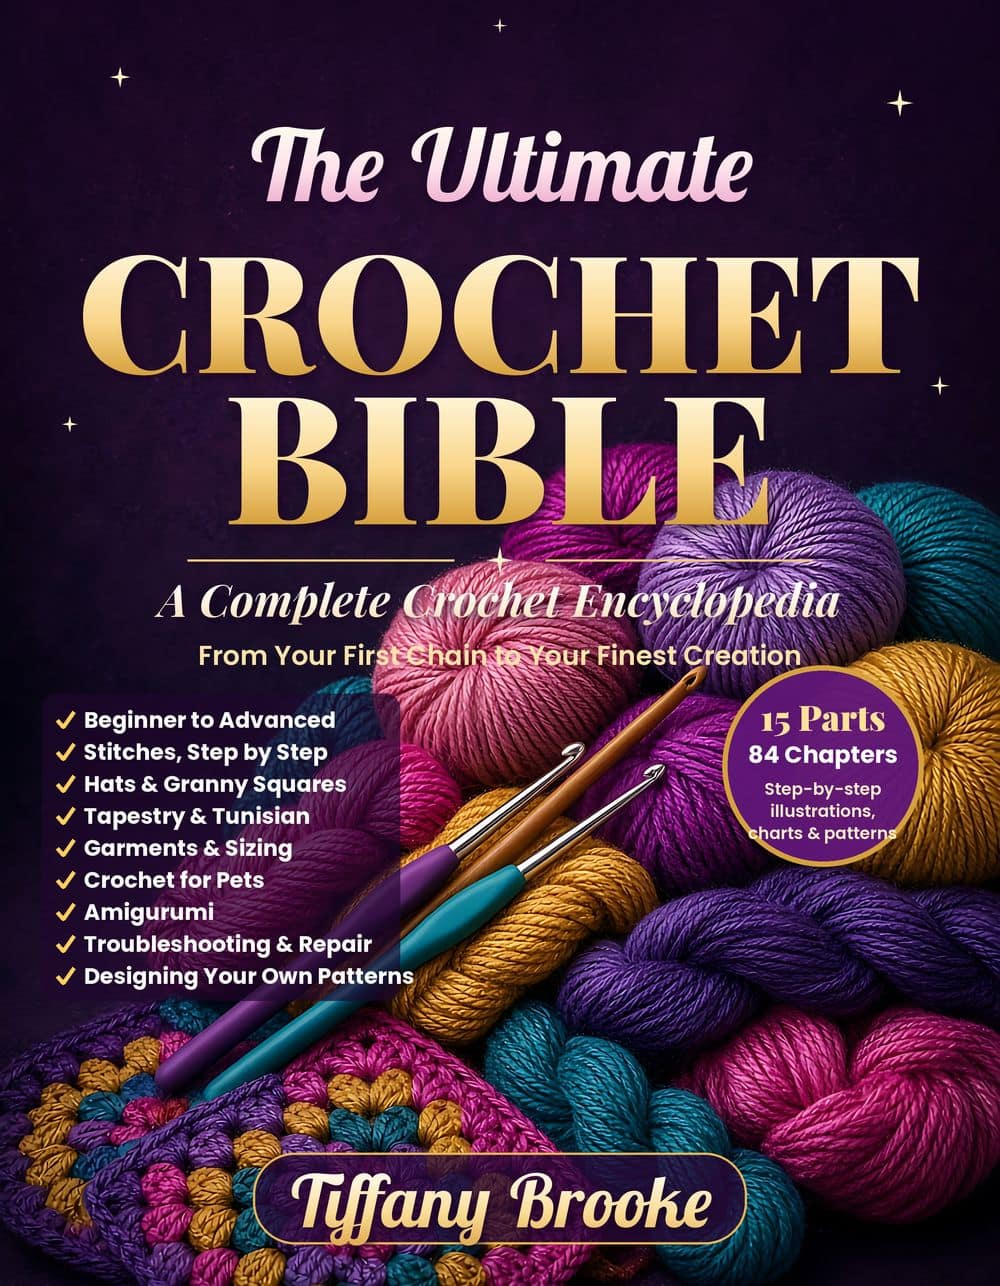
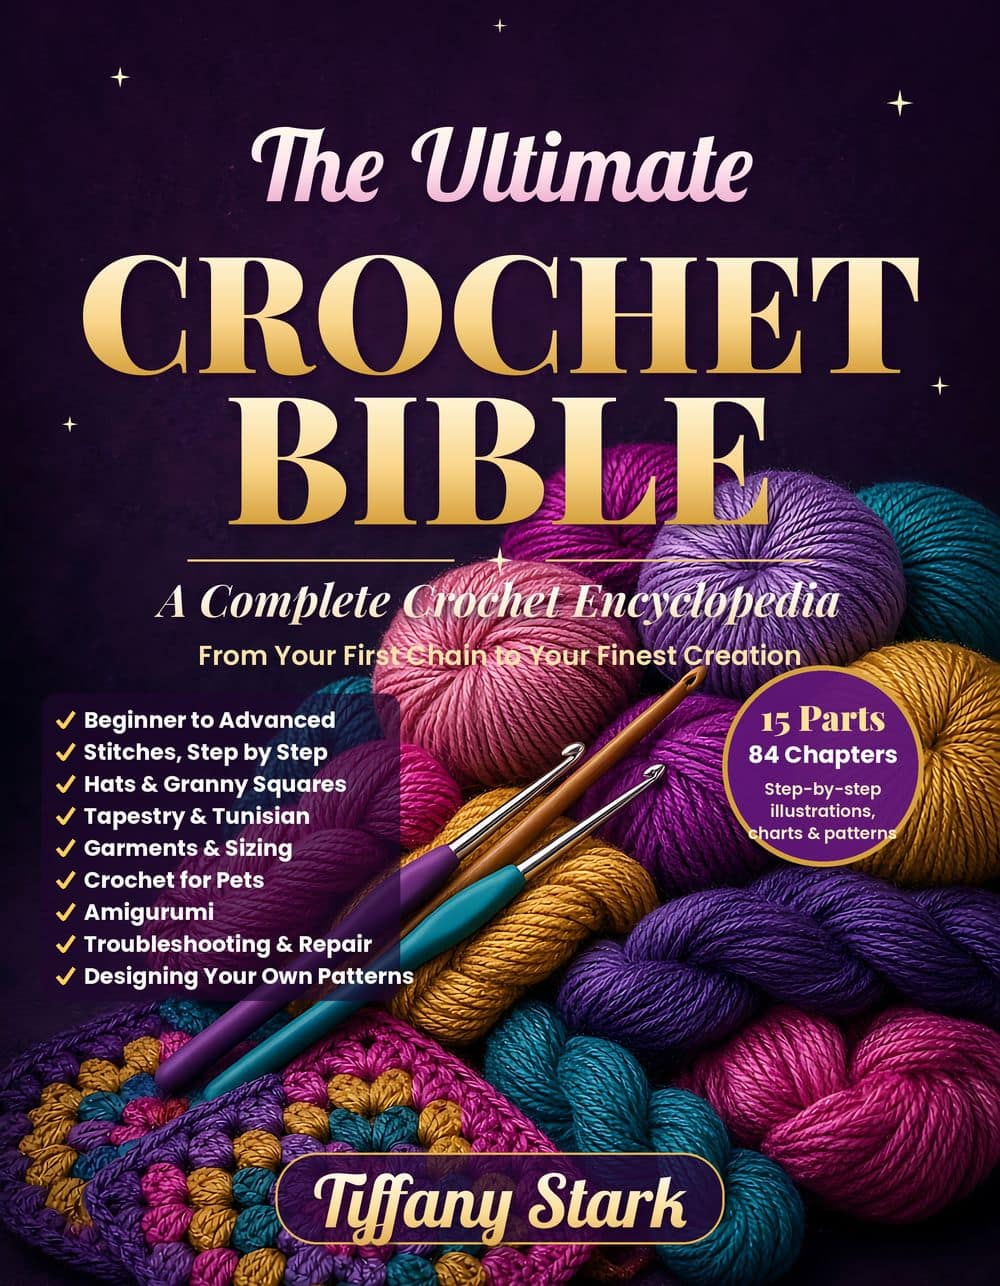
Add Tiffany Stark’s About page and the new section covers.
The updated book package is the reader’s source, with her designed author page last and the dictionary and index covers on the contents page.

Changed region(s): [[0.248, 0.8709, 0.744, 0.9953]]

diff --git a/lib/book-load.ts b/lib/book-load.ts
@@ -38,7 +38,8 @@ type Manifest = {
   parts: { n: number; title: string; color: string; cover: string }[];
   chapters: ManifestChapter[];
   front_matter: string;
-  about_the_author?: string;
+  about_the_author?: { title: string; slug: string; file: string; image: string };
+  section_covers?: { dictionary?: string; index?: string };
   badges: Record<string, string>;
 };
 
@@ -79,7 +80,7 @@ function readDocument(fileRel: string, meta: Omit<BookChapter, "blocks" | "plain
     resolveImage: (src) => resolveBookImage(full, src),
   });
   const title = meta.title || parsed.title || meta.slug;
-  const blocks = !meta.title && parsed.blocks[0]?.type === "heading" && parsed.blocks[0].text === title
+  const blocks = parsed.blocks[0]?.type === "heading" && parsed.blocks[0].text === title
     ? parsed.blocks.slice(1)
     : parsed.blocks;
   const firstParagraph = blocks.find((block) => block.type === "paragraph");
@@ -140,7 +141,16 @@ function linkChapters(chapters: BookChapter[]): void {
   }
 }
 
-function loadBookUncached(): { parts: BookPart[]; chapters: BookChapter[]; documents: BookChapter[]; front: BookChapter; dictionary: BookChapter; about: BookChapter | null; chapterCount: number } {
+function loadBookUncached(): {
+  parts: BookPart[];
+  chapters: BookChapter[];
+  documents: BookChapter[];
+  front: BookChapter;
+  dictionary: BookChapter;
+  about: BookChapter | null;
+  sectionCovers: { dictionary: string; index: string } | null;
+  chapterCount: number;
+} {
   const front = readDocument(manifest.front_matter, {
     slug: "front-matter",
     partSlug: "front-matter",
@@ -194,8 +204,9 @@ function loadBookUncached(): { parts: BookPart[]; chapters: BookChapter[]; docum
   });
 
   const about = manifest.about_the_author
-    ? readDocument(manifest.about_the_author, {
-      slug: path.basename(manifest.about_the_author, ".md"),
+    ? readDocument(manifest.about_the_author.file, {
+      slug: manifest.about_the_author.slug,
+      title: manifest.about_the_author.title,
       partSlug: "about",
       partTitle: "About the author",
       partNumber: null,
@@ -203,11 +214,14 @@ function loadBookUncached(): { parts: BookPart[]; chapters: BookChapter[]; docum
       kind: "about",
     })
     : null;
+  const sectionCovers = manifest.section_covers?.dictionary && manifest.section_covers.index
+    ? { dictionary: publicAsset(manifest.section_covers.dictionary), index: publicAsset(manifest.section_covers.index) }
+    : null;
 
   const documents = [front, dictionary, ...parts.flatMap((part) => [part.intro, ...part.chapters]), ...(about ? [about] : [])];
   linkChapters(documents);
   const chapters = documents.filter((document) => document.kind === "chapter");
-  return { parts, chapters, documents, front, dictionary, about, chapterCount: chapters.length };
+  return { parts, chapters, documents, front, dictionary, about, sectionCovers, chapterCount: chapters.length };
 }
 
 let cached: ReturnType<typeof loadBookUncached> | null = null;

diff --git a/lib/book.ts b/lib/book.ts
@@ -10,14 +10,14 @@ export type StepPhoto = {
 export type CalloutKind = "wisdom" | "dang" | "fix" | "hint" | "safety" | "pattern" | "status" | "try";
 
 export type BookBlock =
-  | { type: "heading"; level: 2 | 3 | 4; text: string }
+  | { type: "heading"; level: 1 | 2 | 3 | 4; text: string }
   | { type: "paragraph"; text: string }
   | { type: "quote"; text: string }
   | { type: "list"; ordered: boolean; items: string[] }
   | { type: "wisdom" | "dang" | "fix"; text: string }
   | { type: "callout"; kind: CalloutKind; title: string; text: string }
   | { type: "steps"; steps: StepPhoto[] }
-  | { type: "image"; src: string; alt: string; kind: "symbol" | "figure" }
+  | { type: "image"; src: string; alt: string; kind: "symbol" | "figure" | "poster" }
   | { type: "table"; headers: string[]; rows: string[][] }
   | { type: "rule" };
 
@@ -88,8 +88,10 @@ function parseStepLine(line: string, options?: ParseOptions): StepPhoto | null {
   return { n, src, caption: parts[2], checkpoint: parts.slice(3).join(" | "), embeddedBadge: false };
 }
 
-function imageKind(src: string): "symbol" | "figure" {
-  return src.includes("/symbols/") ? "symbol" : "figure";
+function imageKind(src: string): "symbol" | "figure" | "poster" {
+  if (src.includes("/symbols/")) return "symbol";
+  if (src.includes("about-the-author")) return "poster";
+  return "figure";
 }
 
 function parseImageLine(line: string): { alt: string; raw: string } | null {
@@ -287,10 +289,10 @@ export function parseChapter(markdown: string, options?: ParseOptions): ParsedCh
       continue;
     }
 
-    const heading = line.match(/^(#{2,4})\s+(.+)$/);
+    const heading = line.match(/^(#{1,4})\s+(.+)$/);
     if (heading) {
-      const level = heading[1].length;
-      blocks.push({ type: "heading", level: level === 2 ? 2 : level === 3 ? 3 : 4, text: heading[2].trim() });
+      const level = heading[1].length as 1 | 2 | 3 | 4;
+      blocks.push({ type: "heading", level, text: heading[2].trim() });
       index += 1;
       continue;
     }

diff --git a/app/globals.css b/app/globals.css
@@ -495,6 +495,12 @@ caption { text-align: left; padding: 0.8rem; font-weight: 800; }
 .book-quote { margin: 1rem 0; padding: 0.2rem 0 0.2rem 1rem; border-left: 6px solid #3ef0df; }
 .book-figure { margin: 1rem 0; }
 .book-figure img { display: block; width: min(100%, 720px); height: auto; border-radius: 18px; }
+.book-figure.poster { width: 100%; }
+.book-figure.poster img { width: 100%; max-width: 100%; }
+.section-covers { display: grid; grid-template-columns: 1fr 1fr; gap: 1rem; margin: 0; }
+.section-covers figure { margin: 0; }
+.section-covers img { width: 100%; height: auto; border-radius: 18px; display: block; }
+.section-covers figcaption { margin-top: 0.45rem; font-weight: 800; color: var(--ink); }
 .book-figure.symbol img { width: 84px; background: #fffdfb; padding: 0.45rem; border-radius: 12px; }
 .book-table { background: var(--surface); color: var(--ink); border-radius: 18px; }
 .book-part-head { display: grid; grid-template-columns: 200px 1fr; gap: 1rem; align-items: center; margin-bottom: 0.8rem; }
@@ -549,7 +555,7 @@ html[data-theme="dark"] .checkpoint { color: #ffd0ea; }
   .site-nav { width: 100%; justify-content: flex-start; }
   .heading-row, .tracker-head, .pattern-card, .with-portrait { align-items: flex-start; flex-direction: column; }
   .hero { grid-template-columns: 1fr; }
-  .book-part-head { grid-template-columns: 1fr; }
+  .book-part-head, .section-covers { grid-template-columns: 1fr; }
   h1 { font-size: 2.5rem; }
   .photo-gallery { gap: 0.6rem; }
   .gallery-frame { aspect-ratio: 1 / 1; border-radius: 18px; }

diff --git a/app/book/page.tsx b/app/book/page.tsx
@@ -49,6 +49,28 @@ export default function BookPage() {
           </ol>
         </section>
       ))}
+      {book.sectionCovers && (
+        <section className="panel">
+          <h2>Section covers</h2>
+          <div className="section-covers">
+            <figure>
+              <img src={book.sectionCovers.dictionary} alt="Section cover for the Stitch and Abbreviation Dictionary: a colorful crochet swatch, hook, yarn, and a magnifying glass." />
+              <figcaption>Stitch and Abbreviation Dictionary</figcaption>
+            </figure>
+            <figure>
+              <img src={book.sectionCovers.index} alt="Section cover for the Index: stacked granny squares beside a wooden box of colored index tabs." />
+              <figcaption>Index</figcaption>
+            </figure>
+          </div>
+        </section>
+      )}
+      {book.about && (
+        <section className="panel">
+          <h2>About the author</h2>
+          <p><Link href={`/book/${book.about.slug}`}>{book.about.title}</Link></p>
+          <p><Link href="/about">Open the About page</Link></p>
+        </section>
+      )}
     </div>
   );
 }

diff --git a/app/sitemap.ts b/app/sitemap.ts
@@ -5,7 +5,7 @@ import { stitches } from "../lib/stitches";
 const base = "https://crochet-chaos.vercel.app";
 
 export default function sitemap(): MetadataRoute.Sitemap {
-  const staticRoutes = ["", "/stitches", "/glossary", "/calculators", "/calculators/dog-sweater", "/calculators/time", "/sizes", "/reference", "/workspace", "/lessons", "/book"];
+  const staticRoutes = ["", "/stitches", "/glossary", "/calculators", "/calculators/dog-sweater", "/calculators/time", "/sizes", "/reference", "/workspace", "/lessons", "/book", "/about"];
   const pages = staticRoutes.map((route) => ({ url: `${base}${route || "/"}`, lastModified: new Date() }));
   const stitchPages = stitches.map((stitch) => ({ url: `${base}/stitches/${stitch.slug}`, lastModified: new Date() }));
   const chapterPages = loadBook().documents.map((chapter) => ({ url: `${base}/book/${chapter.slug}`, lastModified: new Date() }));

diff --git a/app/about/page.tsx b/app/about/page.tsx
@@ -1,0 +1,23 @@
+import type { Metadata } from "next";
+import Link from "next/link";
+import { notFound } from "next/navigation";
+import { BookBody } from "../../components/BookBody";
+import { getChapter } from "../../lib/book-load";
+
+export const metadata: Metadata = {
+  title: "About Tiffany Stark",
+  description: "About the author of The Ultimate Crochet Bible, Tiffany Stark.",
+};
+
+export default function AboutPage() {
+  const chapter = getChapter("about-the-author");
+  if (!chapter) notFound();
+  return (
+    <article>
+      <p className="eyebrow">The Ultimate Crochet Bible</p>
+      <h1>{chapter.title}</h1>
+      <BookBody blocks={chapter.blocks} />
+      <p><Link href="/book/about-the-author">This page in the book</Link></p>
+    </article>
+  );
+}

diff --git a/lib/book.test.ts b/lib/book.test.ts
@@ -84,7 +84,10 @@ test("the imported book is 15 parts and 84 chapters", () => {
   const book = loadBook();
   assert.equal(book.parts.length, 15);
   assert.equal(book.chapterCount, 84);
-  assert.equal(book.documents.length, 101);
+  assert.equal(book.documents.length, 102);
+  assert.equal(book.documents.at(-1)?.slug, "about-the-author");
+  assert.ok(book.sectionCovers?.dictionary.endsWith("/dictionary.jpg"));
+  assert.ok(book.sectionCovers?.index.endsWith("/index.jpg"));
   const grip = getChapter("ch09-grip-tension-and-first-stitches");
   assert.ok(grip);
   assert.match(grip.plainText, /Step pictures are generated illustrations, not photographs of a physical sample/);

diff --git a/components/BookBody.tsx b/components/BookBody.tsx
@@ -68,7 +68,7 @@ export function BookBody({ blocks }: { blocks: BookBlock[] }) {
     <div className="book-body">
       {blocks.map((block, index) => {
         if (block.type === "heading") {
-          if (block.level === 2) return <h2 key={index}>{inline(block.text, `h${index}`)}</h2>;
+          if (block.level <= 2) return <h2 key={index}>{inline(block.text, `h${index}`)}</h2>;
           if (block.level === 3) return <h3 key={index}>{inline(block.text, `h${index}`)}</h3>;
           return <h4 key={index}>{inline(block.text, `h${index}`)}</h4>;
         }

diff --git a/components/SiteShell.tsx b/components/SiteShell.tsx
@@ -40,7 +40,10 @@ function Shell({ children }: { children: React.ReactNode }) {
         </nav>
       </header>
       <main id="content" className="page">{children}</main>
-      <footer className="site-footer">Crochet Chaos · a companion for The Ultimate Crochet Bible by Tiffany Stark</footer>
+      <footer className="site-footer">
+        <p>Crochet Chaos · a companion for The Ultimate Crochet Bible by Tiffany Stark</p>
+        <p><Link href="/about">About Tiffany Stark</Link></p>
+      </footer>
     </>
   );
 }

diff --git a/content/book/chapters/about-the-author.md b/content/book/chapters/about-the-author.md
@@ -1,0 +1,9 @@
+---
+title: About the Author
+slug: about-the-author
+---
+# About the Author
+
+![About the Author: Tiffany Stark. Portrait, biography, A Few Things About Tiffany, and the Crochet Chaos companion website.](../assets/art/about-the-author.jpg)
+
+Tiffany Stark designed this page herself. It is the last page of the print book.
